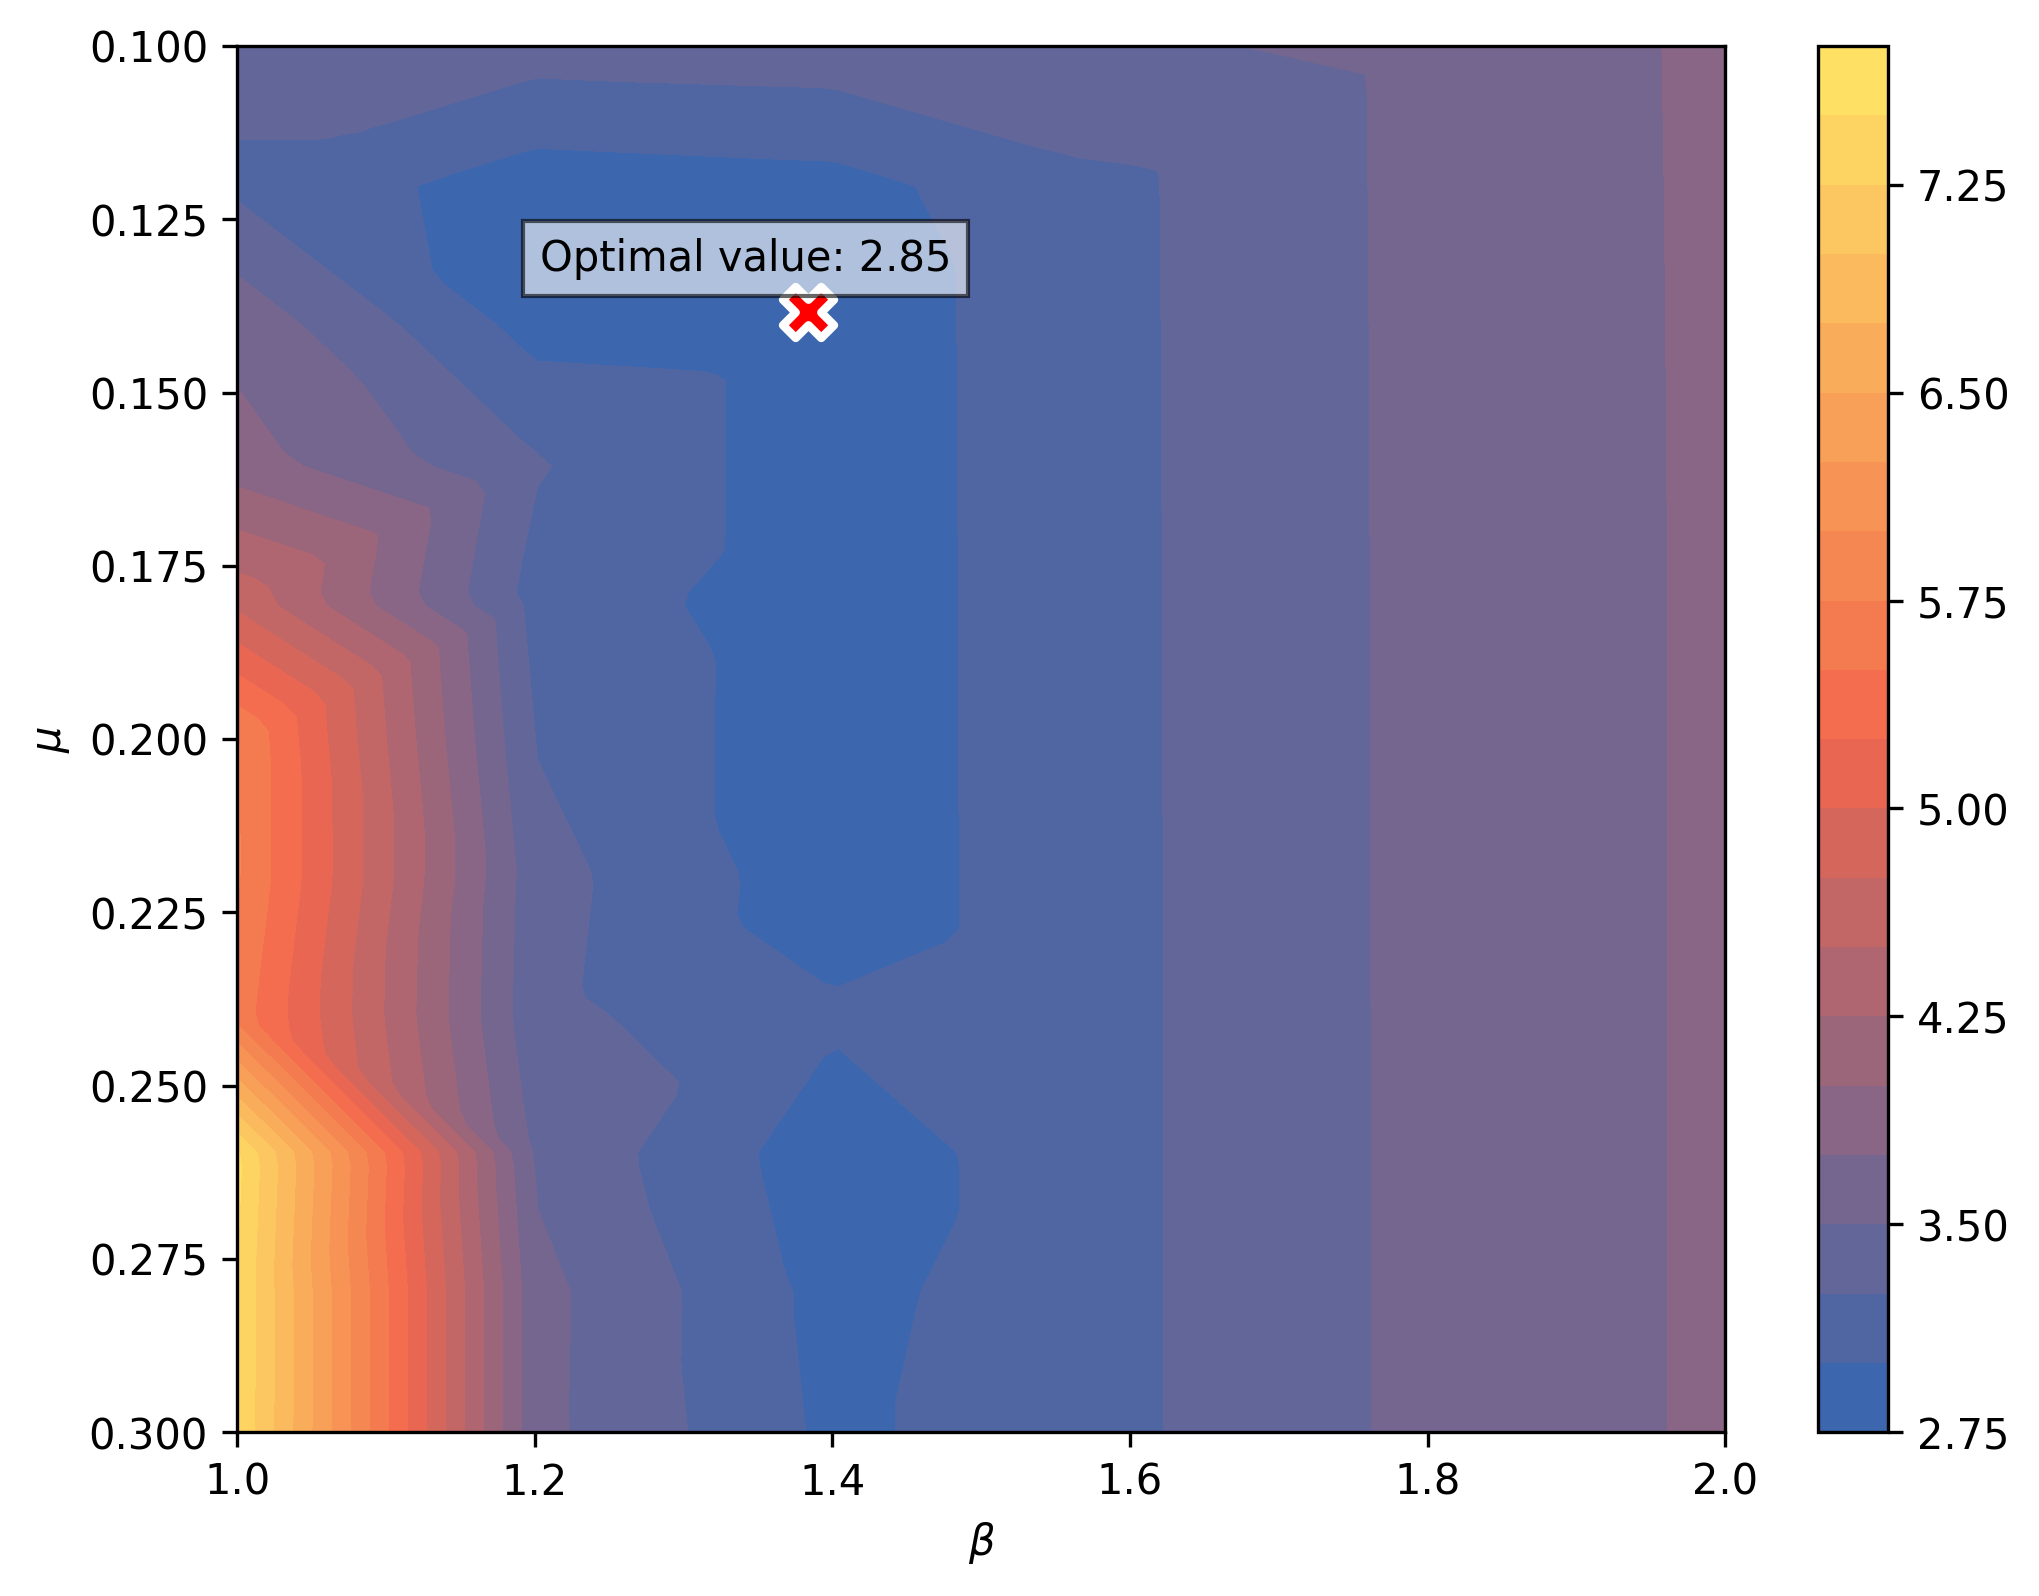
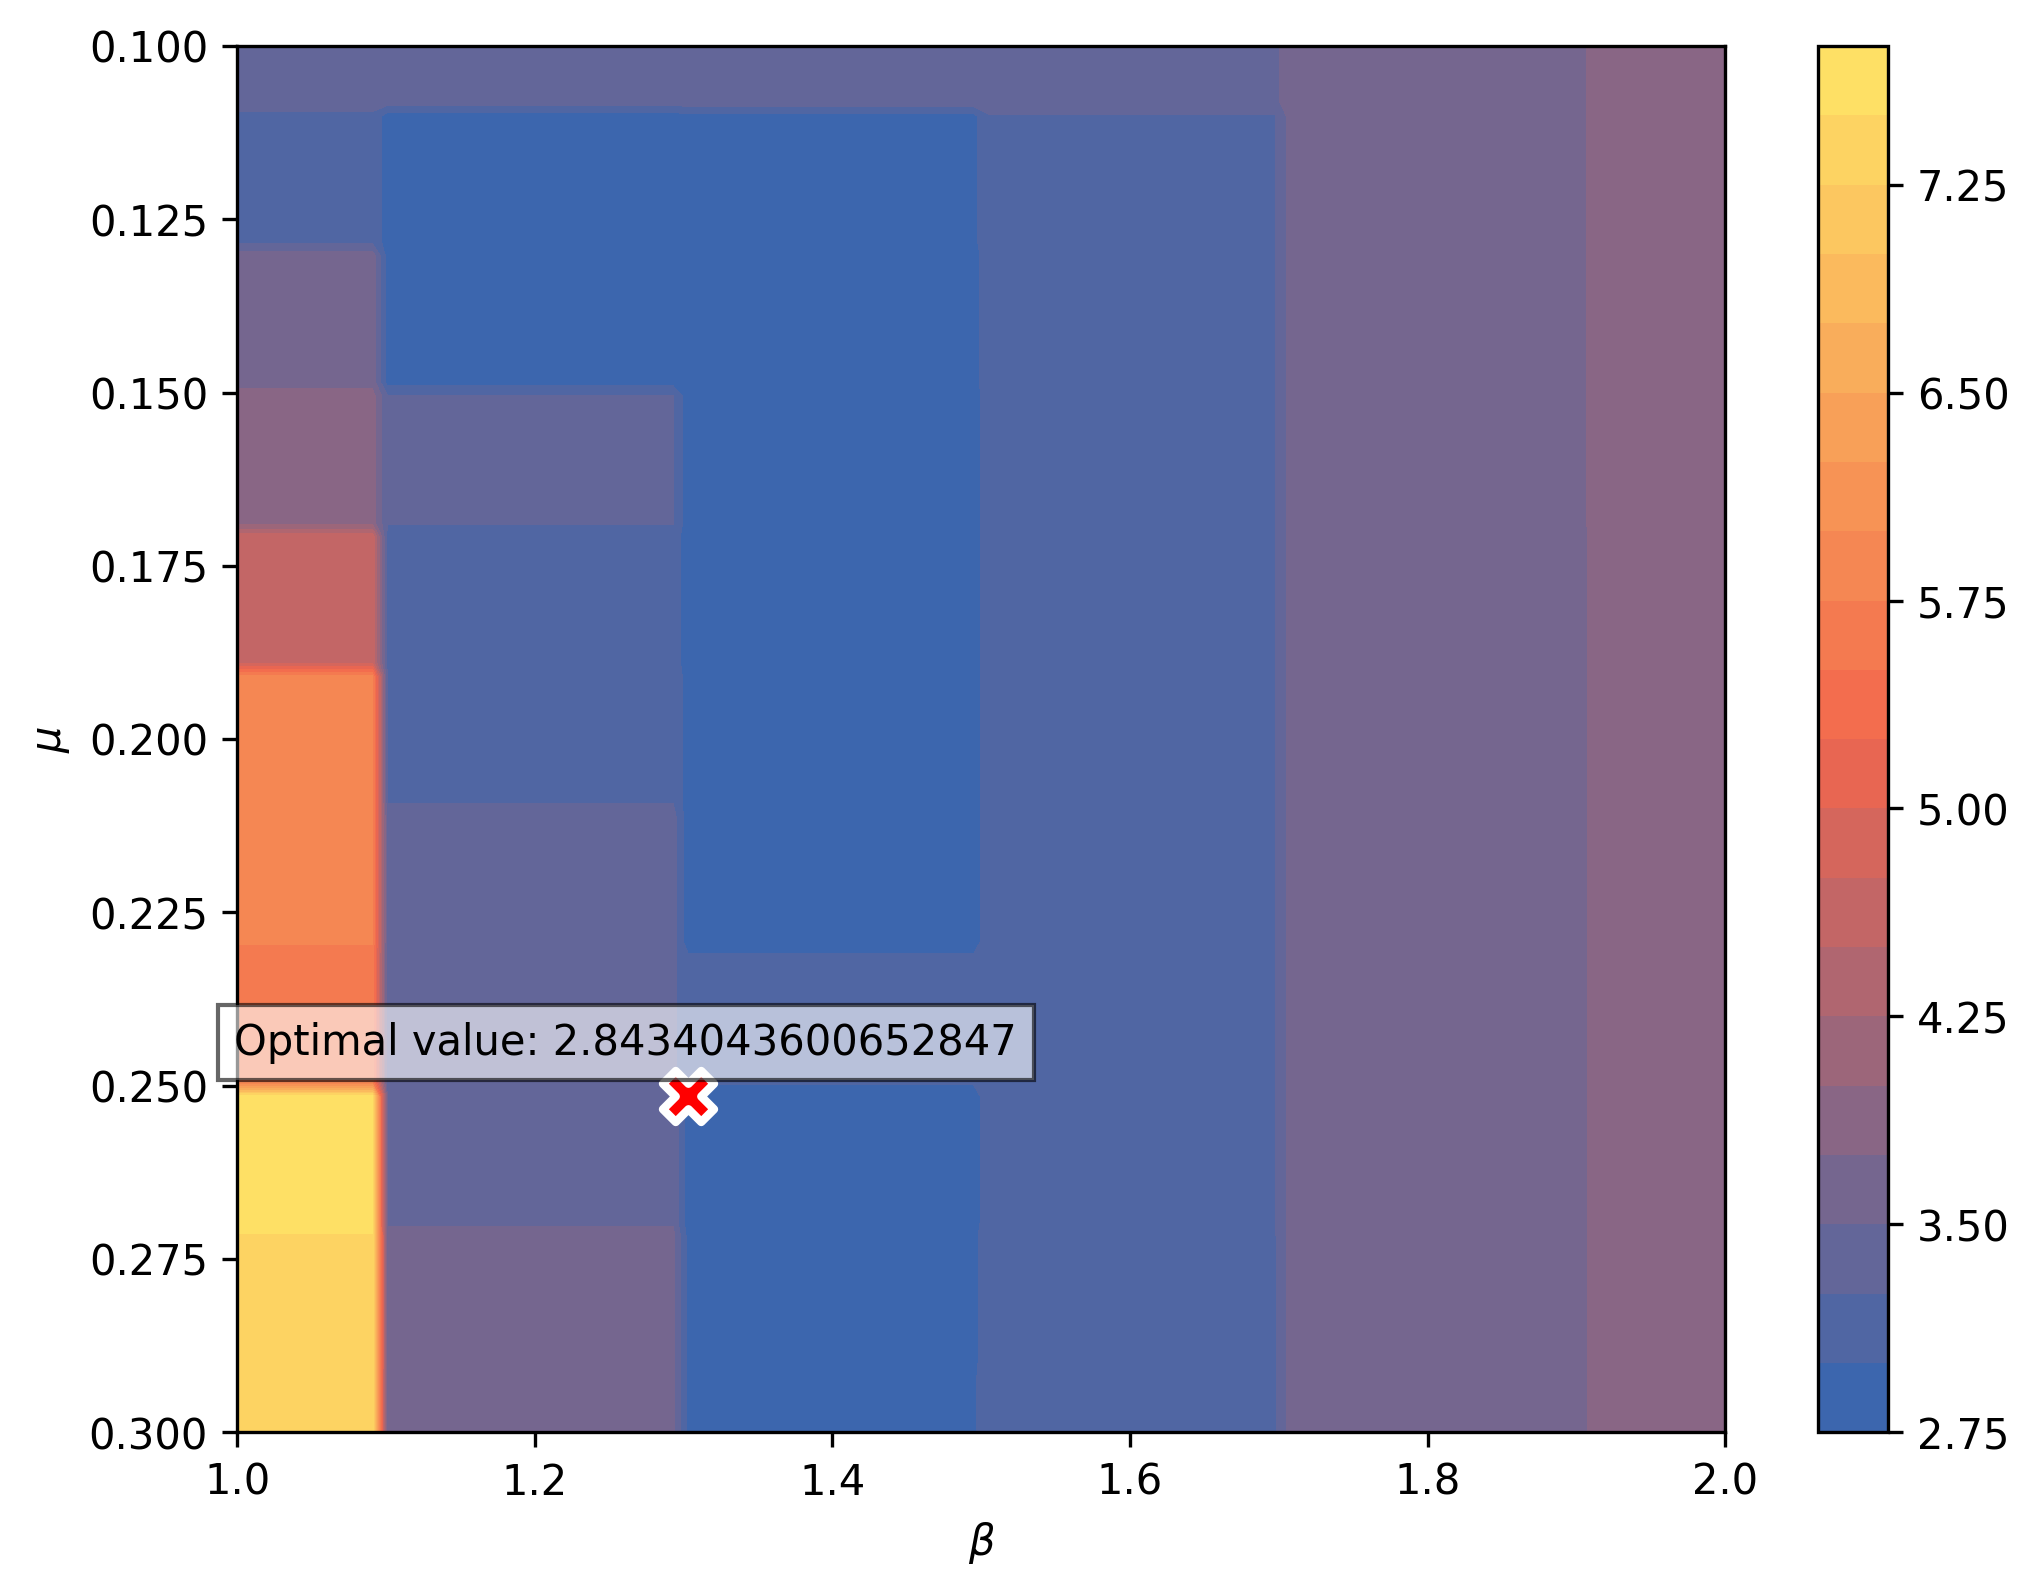
plots

diff --git a/Countourplot2.py b/Countourplot2.py
@@ -6,25 +6,25 @@ from scipy.interpolate import griddata
 from matplotlib.colors import LinearSegmentedColormap, Normalize
 
 # Load data from CSV file
-csv_file = r'C:\Thesis\Fresh pull\Onlineschedulingalgo_assorted_1\Results_mtpa\Heat_Maps\General\Generate_Avg_Max.csv'
+csv_file = r'C:\Thesis\Fresh pull\Onlineschedulingalgo_assorted_1\Results_mast\Heat_Maps\Roofline\Generate_Avg_Max.csv'
 data = pd.read_csv(csv_file)
 
 # Define save directory
-save_directory = r'C:\Thesis\Fresh pull\Onlineschedulingalgo_assorted_1\Results_mtpa\Contour_Plots\General'
+save_directory = r'C:\Thesis\Fresh pull\Onlineschedulingalgo_assorted_1\Results_mast\Contour_Plots\Roofline'
 os.makedirs(save_directory, exist_ok=True)  # Ensure the directory exists
 
 # Create grid for contour plot
 mu_vals = np.linspace(data['mu'].min(), data['mu'].max(), 100)
-gamma_vals = np.linspace(data['gamma'].min(), data['gamma'].max(), 100)
-mu_grid, gamma_grid = np.meshgrid(mu_vals, gamma_vals)
+beta_vals = np.linspace(data['beta'].min(), data['beta'].max(), 100)
+mu_grid, beta_grid = np.meshgrid(mu_vals, beta_vals)
 
 # Function to interpolate data
 def interpolate_column(column_name):
     return griddata(
-        (data['gamma'], data['mu']),  # (x, y) order
+        (data['beta'], data['mu']),  # (x, y) order
         data[column_name],
-        (gamma_grid, mu_grid),  # Interpolated to match the grid
-        method='linear'  # Change to 'linear' or 'nearest' if needed
+        (beta_grid, mu_grid),  # Interpolated to match the grid
+        method='nearest'  # Change to 'linear' or 'nearest' if needed
     )
 
 # Generate grids for 'average' and 'max' values
@@ -47,9 +47,9 @@ def plot_contour_with_min(grid, title, cmap=custom_cmap_reversed):
     plt.figure(figsize=(8, 6))
     
     # Plot the contour
-    contour = plt.contourf(gamma_grid, mu_grid, grid, levels=20, cmap=cmap)
+    contour = plt.contourf(beta_grid, mu_grid, grid, levels=20, cmap=cmap)
     plt.colorbar(contour)
-    plt.xlabel(r'$\gamma$',  fontweight='bold')  # Bigger and bold gamma (α)
+    plt.xlabel(r'$\beta$',  fontweight='bold')  # Bigger and bold beta (α)
     plt.ylabel(r'$\mu$',  fontweight='bold')      # Bigger and bold Mu (μ)
 
     plt.title(title)
@@ -61,15 +61,15 @@ def plot_contour_with_min(grid, title, cmap=custom_cmap_reversed):
     min_value = np.nanmin(grid)  # Use nanmin to avoid issues with NaNs
     min_index = np.unravel_index(np.nanargmin(grid), grid.shape)  # Get index of min value
     
-    # Get the corresponding gamma and mu values
-    min_gamma = gamma_grid[min_index]
+    # Get the corresponding beta and mu values
+    min_beta = beta_grid[min_index]
     min_mu = mu_grid[min_index]
 
     # Mark the minimum value on the plot with a red circle
-    plt.scatter(min_gamma, min_mu, color='red', s=150, marker='X', edgecolors='white', linewidth=2, label=f"Min: {min_value:.2f}")
+    plt.scatter(min_beta, min_mu, color='red', s=150, marker='X', edgecolors='white', linewidth=2, label=f"Min: {min_value:.2f}")
     
     # Add annotation next to the minimum marker
-    plt.annotate(f"Optimal value: {min_value:.2f}", (min_gamma, min_mu), textcoords="offset points", xytext=(-15,10), ha='center', fontsize=10, color='black', bbox=dict(facecolor='white', alpha=0.6))
+    plt.annotate(f"Optimal value: {min_value}", (min_beta, min_mu), textcoords="offset points", xytext=(-15,10), ha='center', fontsize=10, color='black', bbox=dict(facecolor='white', alpha=0.6))
 
     # Save the plot before showing
     plot_path = os.path.join(save_directory, 'Contour_max.png')
